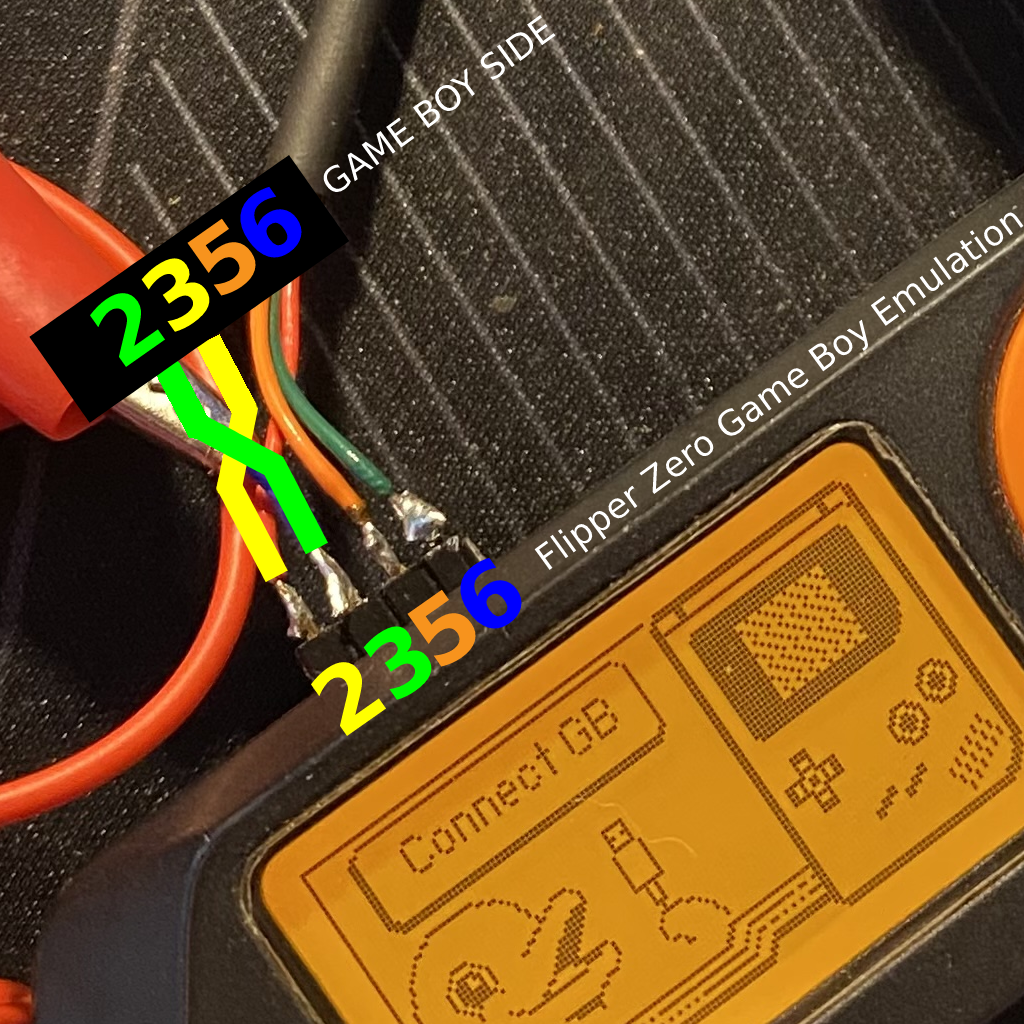
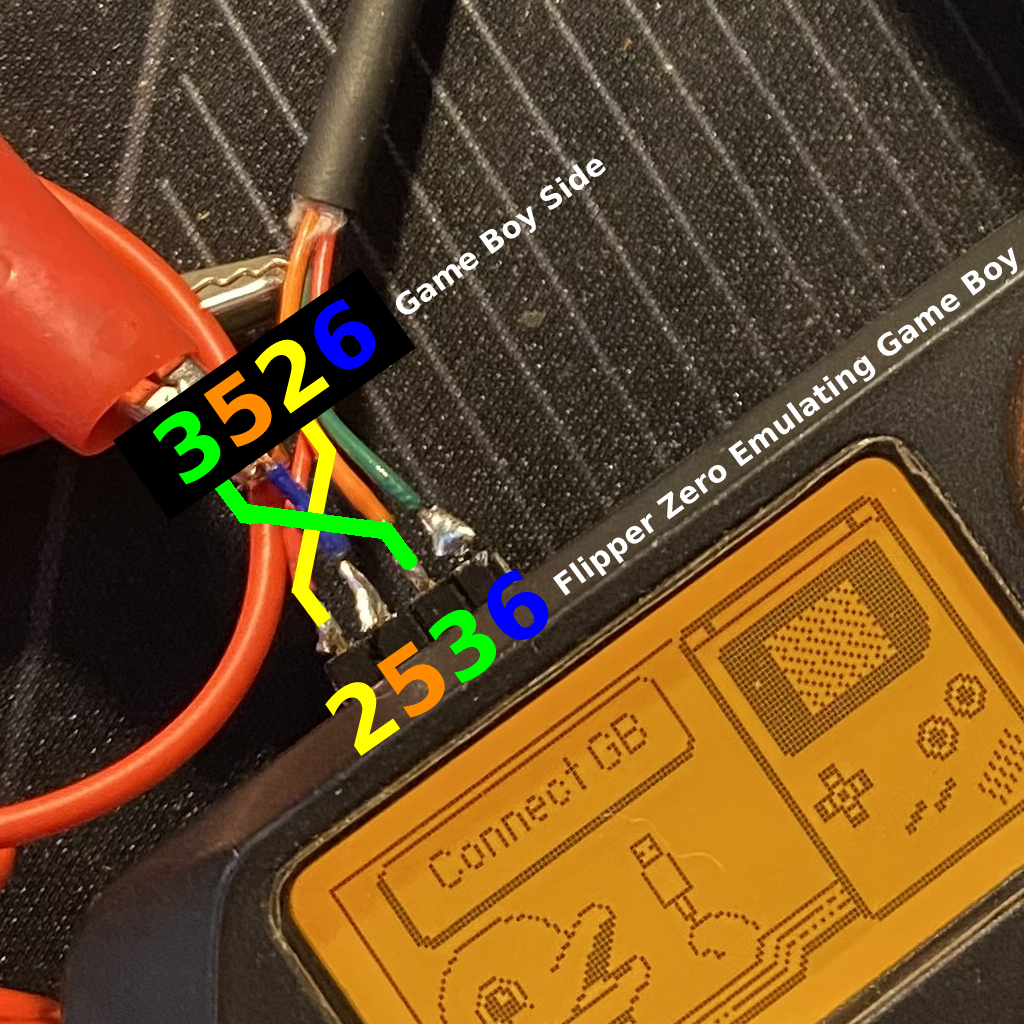
Fix Frozen `OK` Button, Closes #1

diff --git a/views/trade.hpp b/views/trade.hpp
@@ -9,8 +9,8 @@
 #include <gui/view.h>
 #include <gui/view_dispatcher.h>
 
-#define GAME_BOY_CLK gpio_ext_pc3
-#define GAME_BOY_SI gpio_ext_pb2
+#define GAME_BOY_CLK gpio_ext_pb2
+#define GAME_BOY_SI gpio_ext_pc3
 #define GAME_BOY_SO gpio_ext_pb3
 
 #define DELAY_MICROSECONDS 15

diff --git a/README.md b/README.md
@@ -196,8 +196,8 @@ The pins should be connected as follows:
 | Cable Game Link (Socket) | Flipper Zero GPIO |
 | ------------------------ | ----------------- |
 | 6 (GND)                  | 8 (GND)           |
-| 5 (CLK)                  | 7 (C3)            |
-| 3 (SI)                   | 6 (B2)            |
+| 5 (CLK)                  | 6 (B2)            |
+| 3 (SI)                   | 7 (C3)            |
 | 2 (SO)                   | 5 (B3)            |
 
 ## Connect to Flipper Zero without Socket PortData EXT Link

diff --git a/README_es.md b/README_es.md
@@ -190,8 +190,8 @@ Se deben conectar los Pines de la siguiente manera
 | Cable Game Link (Socket) | Flipper Zero GPIO |
 | ------------------------ | ----------------- |
 | 6 (GND)                  | 8 (GND)           |
-| 5 (CLK)                  | 7 (C3)            |
-| 3 (SI)                   | 6 (B2)            |
+| 5 (CLK)                  | 6 (B2)            |
+| 3 (SI)                   | 7 (C3)            |
 | 2 (SO)                   | 5 (B3)            |
 
 
